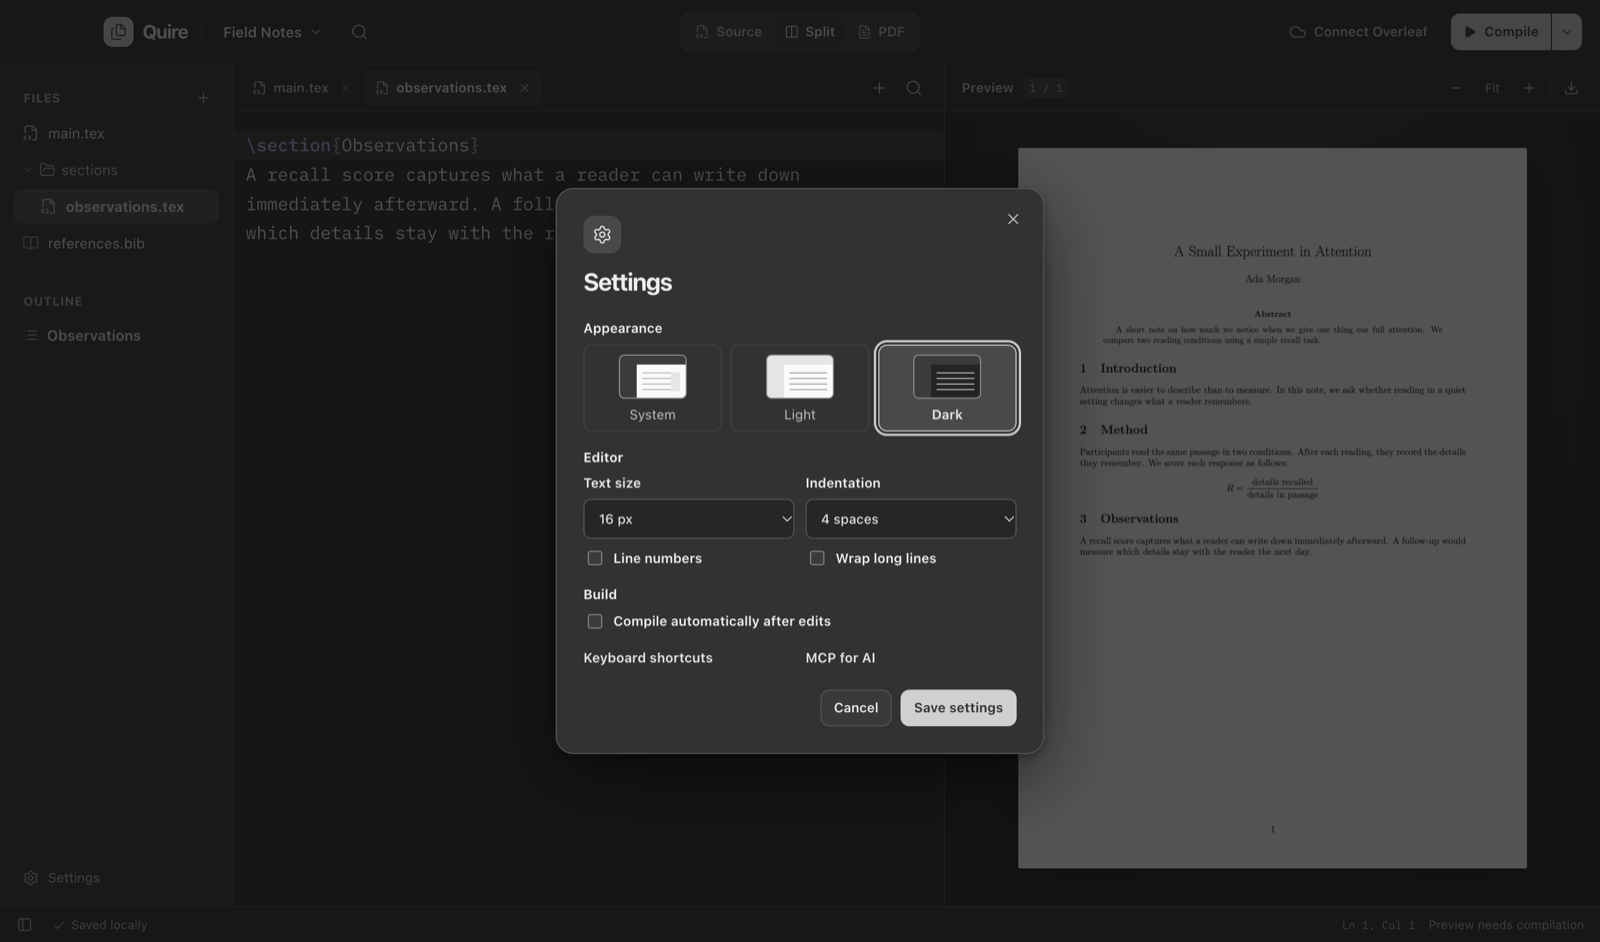
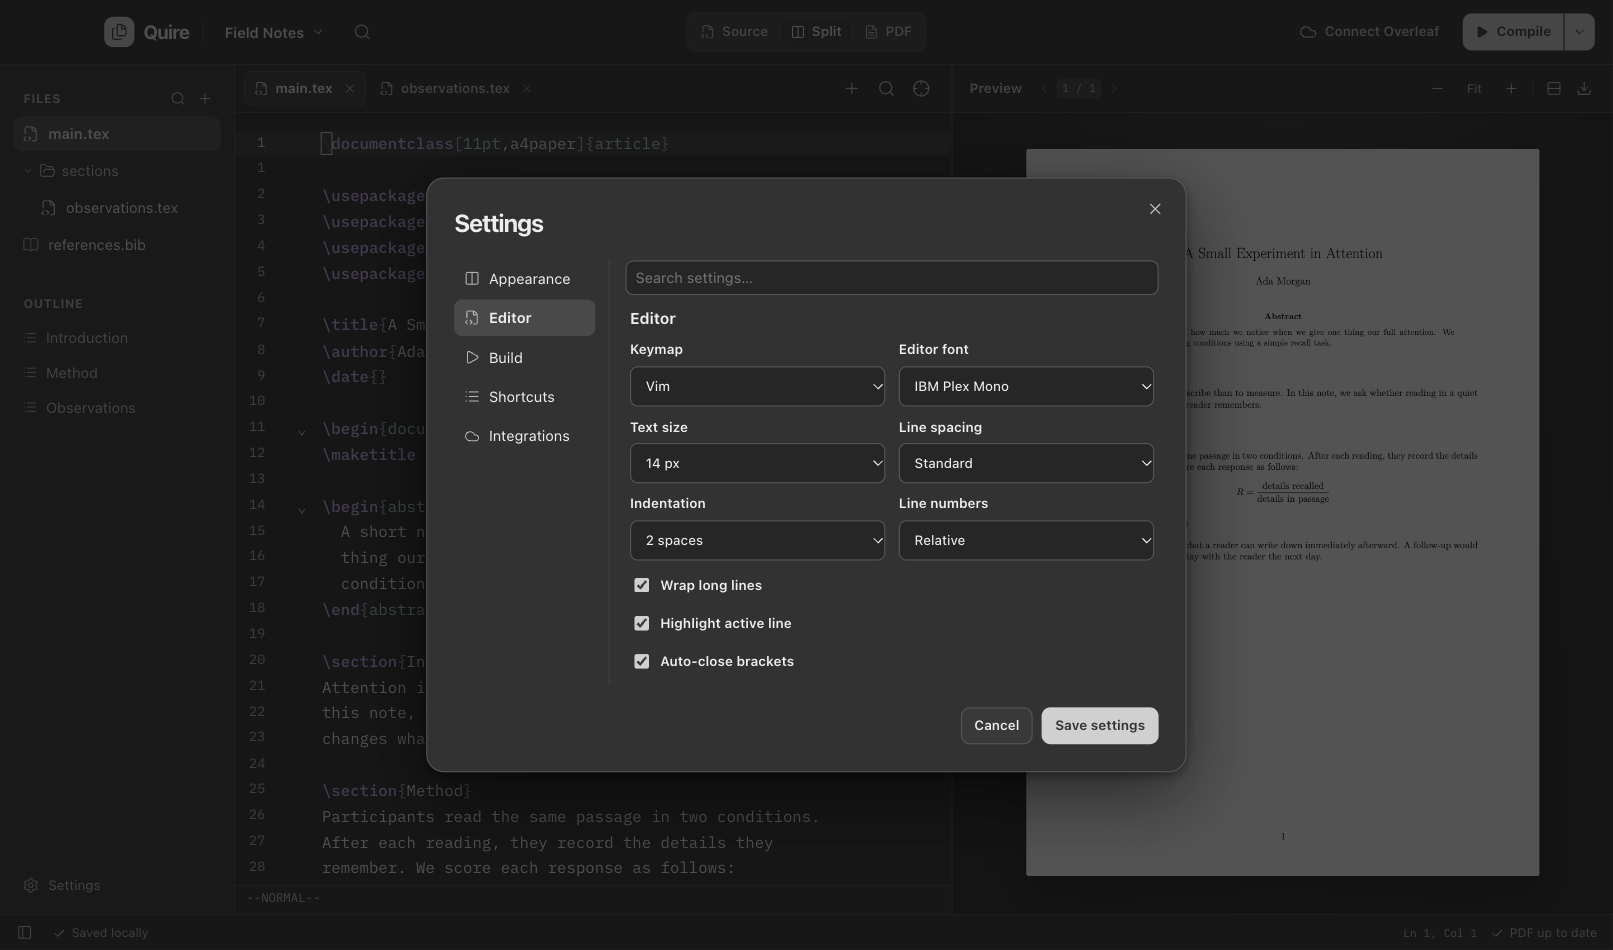
Document and show the updated Quire workspace

diff --git a/docs/usage.md b/docs/usage.md
@@ -4,13 +4,23 @@
 
 **Compile** uses pdfLaTeX by default. Open the arrow next to it to choose the main document, XeLaTeX, or LuaLaTeX. If the source or compiler settings change, compile again before exporting from the PDF toolbar. Build outputs stay outside the source folder until you export them.
 
-Open **Settings** to choose System, Light, or Dark appearance, change text size and indentation, and toggle line numbers or soft wrapping. Quire remembers these preferences. Drag the divider in **Split** view to resize the editor and preview. Opening a file adds a tab. Quire remembers each project's open tabs.
+Open **Settings** to search Appearance, Editor, Build, and Shortcuts. The editor supports two fonts, three line spacings, absolute or relative line numbers, soft wrapping, and configurable indentation. To change a shortcut, select the key combination next to its action in **Settings → Shortcuts** and press the replacement.
 
-Use **Quick open** to find a file or run a command by name. A leading `>` limits results to commands. **Focus mode** hides the sidebar and preview and restores your previous layout when you exit.
+Use **Quick Open** to switch projects, find recent files, or execute a command. Enter `>` for commands or `@` for the project outline. **Search Project** finds literal text across visible source files. Select a result to open the file and place the cursor on the match.
 
-Choose **Article**, **Lab report**, or **Coursework** when creating a project. The form fills the document title, author, and course. Use the plus button above the source editor to insert a section, an equation, or a table at your cursor.
+Drag tabs to reorder them. Use a tab’s context menu to pin it and **Reopen Closed Tab** to bring it back. Drop a folder from your file manager to open a project. Drop files to copy them in, or drag a project item onto a folder to move it. File moves can require updates to LaTeX references such as `\input`.
+
+Select a template preview when creating a project, then fill in the title, author, and course. Use the plus button above the source editor to insert a section, equation, or table. Use completion inside `\ref{}` or `\cite{}` to pick a key from the project. Hold Option or Alt and click a key to jump to its definition.
+
+Choose **Settings → Editor → Keymap → Vim** for modal editing and relative numbers if desired. `:w` saves, `:wq` saves and closes the tab, and `:bn` or `:bp` switches tabs. **Focus Mode** hides the sidebar and preview and restores the previous layout on exit.
+
+## Navigating the PDF
+
+Use the split-layout button in the PDF toolbar to switch between side-by-side and stacked panels, and drag the divider to resize them. Select a page number to jump to that page. Hold Command on macOS or Control on Linux and click in the source or compiled PDF to jump to the corresponding location. This uses the `synctex` command from your TeX distribution and requires a current build.
 
 Turn on **Compile automatically after edits** in Settings for a refreshed PDF after each pause in typing. If a build fails, your last successful PDF stays visible.
+
+Open **Build Issues** to see errors and warnings. Selecting a located problem takes you to its line. The **Log** tab contains the compiler output.
 
 If an external edit prevents saving, choose **Recover edits…** to save your draft to a separate file or discard it and use the disk version. You can also cancel and keep editing the draft.
 
@@ -18,6 +28,7 @@ If an external edit prevents saving, choose **Recover edits…** to save your dr
 | --- | --- | --- |
 | Compile | ⌘ Return | Ctrl Enter |
 | Find in file | ⌘ F | Ctrl F |
+| Search project | ⌘ Option F | Ctrl Alt F |
 | Settings | ⌘ , | Ctrl , |
 | Keyboard shortcuts | ⌘ / | Ctrl / |
 | Quick open | ⌘ K | Ctrl K |
@@ -27,10 +38,13 @@ If an external edit prevents saving, choose **Recover edits…** to save your dr
 | Open project folder | ⌘ O | Ctrl O |
 | Create a file | ⌘ N | Ctrl N |
 | Close tab | ⌘ W | Ctrl W |
+| Reopen closed tab | ⌘ Shift T | Ctrl Shift T |
 | Next or previous tab | Ctrl Tab or Ctrl Shift Tab | Ctrl Tab or Ctrl Shift Tab |
 | Source, Split, or PDF | ⌘ 1, 2, or 3 | Ctrl 1, 2, or 3 |
 | Toggle sidebar | ⌘ B | Ctrl B |
 | Save PDF | ⌘ Shift S | Ctrl Shift S |
+| Reveal source in PDF | ⌘ Option Return | Ctrl Alt Enter |
+| Build Issues | ⌘ Shift M | Ctrl Shift M |
 | Sync Overleaf | ⌘ Shift R | Ctrl Shift R |
 
 ## Connect an Overleaf project

diff --git a/README.md b/README.md
@@ -6,7 +6,7 @@ A local-first LaTeX editor for macOS and Linux. Edit ordinary folders offline, p
 
 [Download Quire](https://github.com/WiaderekB/Quire/releases) · [User guide](docs/usage.md) · [What's new in 0.3.0](docs/releases/v0.3.0.md)
 
-![Quire in dark mode with a file tree, two LaTeX tabs, and a side-by-side PDF preview](docs/screenshots/workspace.png)
+![Quire in dark mode with Vim Normal mode, a project outline, two LaTeX tabs, and a side-by-side PDF preview](docs/screenshots/workspace.png)
 
 ## Download
 
@@ -22,16 +22,18 @@ Editing and autosave work offline. Install `latexmk` and the TeX packages your p
 
 ## Work in Quire
 
-- **Write.** Tabs retain undo history while you switch files. Use Quick Open with `⌘K` or `Ctrl+K` to find files and commands. Focus mode keeps the source in view.
-- **Compile.** Choose pdfLaTeX, XeLaTeX, or LuaLaTeX. Turn on automatic compilation in Settings to refresh the PDF after a pause in typing. The last successful PDF stays visible if compilation fails.
-- **Start a paper.** Use an article, lab report, or coursework template. Insert sections, equations, or tables with the plus button above the source.
+The features below describe the current source checkout. The download table links to the tagged 0.3.0 release.
+
+- **Write.** Choose Standard or Vim keybindings, search across the project, and complete LaTeX commands, labels, citations, and file paths. Pin, reorder, or reopen tabs. Quick Open finds files, recent projects, headings, and commands.
+- **Compile.** Choose pdfLaTeX, XeLaTeX, or LuaLaTeX. Jump directly from a build issue to the offending line. SyncTeX connects source and PDF in both directions, and automatic compilation keeps the preview current while you edit.
+- **Organize.** Preview an article, lab report, or coursework template before starting. Drag in files, move them between folders, or use the editor toolbar to insert a section, equation, or table.
 - **Sync.** Use **Connect Overleaf** with a project URL and a Git token. Your edits save to disk first and sync back to the original project. Overleaf Cloud requires Git access on the project. Self-hosted Overleaf requires Server Pro with Git Bridge. [Overleaf Git integration](https://docs.overleaf.com/integrations-and-add-ons/git-integration-and-github-synchronization/git-integration) · [Server Pro Git Bridge](https://docs.overleaf.com/on-premises/configuration/overleaf-toolkit/server-pro-only-configuration/git-integration)
 - **Connect an AI client.** Under **Settings → MCP for AI**, copy the local server configuration for a single project. The server requires Node.js 24 and provides read access by default. Enable source edits when you need them.
 
 <details>
 <summary>Appearance and editor settings</summary>
 
-![Quire Settings with appearance, indentation, line numbering, wrapping, and automatic compilation controls](docs/screenshots/settings.png)
+![Quire’s searchable Settings with Vim keymap, editor typography, and line-number controls](docs/screenshots/settings.png)
 
 </details>
 
